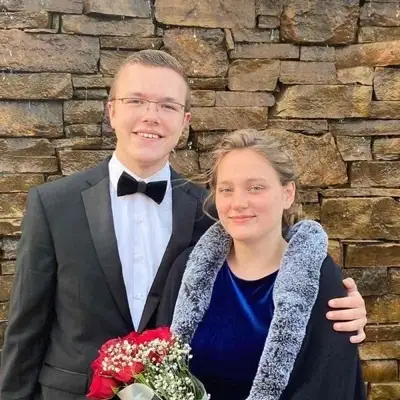
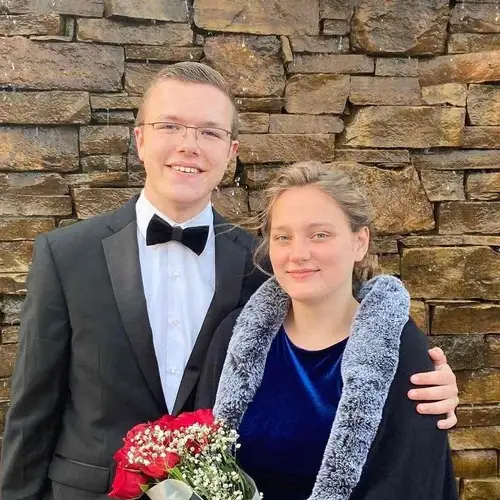
Improve service times format and team photo quality
- Update service times to show time first (e.g., "10 AM Christian Education")
- Add monospace font for times in footer
- Increase team photo resolution from 400px to 1200px max
- Add pro-tip callout on Plan a Visit page for kids check-in
- Fix pastor page layout spacing

🤖 Generated with [Claude Code](https://claude.com/claude-code)

diff --git a/scripts/image_utils.rb b/scripts/image_utils.rb
@@ -14,7 +14,8 @@ module ImageUtils
   # Maximum dimensions for different image types
   HERO_MAX_WIDTH = 1920
   HERO_MAX_HEIGHT = 1080
-  LEADER_MAX_SIZE = 400  # Square for avatars
+  LEADER_MAX_SIZE = 400  # Square for small avatars
+  TEAM_MAX_SIZE = 1200   # Larger for featured team photos (pastor page)
   HEADER_MAX_WIDTH = 1200
   HEADER_MAX_HEIGHT = 600
 
@@ -171,8 +172,10 @@ module ImageUtils
       case type
       when :hero
         [HERO_MAX_WIDTH, HERO_MAX_HEIGHT]
-      when :leader, :team
+      when :leader
         [LEADER_MAX_SIZE, LEADER_MAX_SIZE]
+      when :team
+        [TEAM_MAX_SIZE, TEAM_MAX_SIZE]
       when :header
         [HEADER_MAX_WIDTH, HEADER_MAX_HEIGHT]
       else
